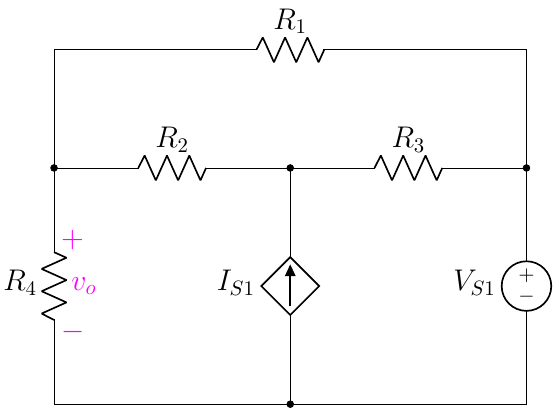
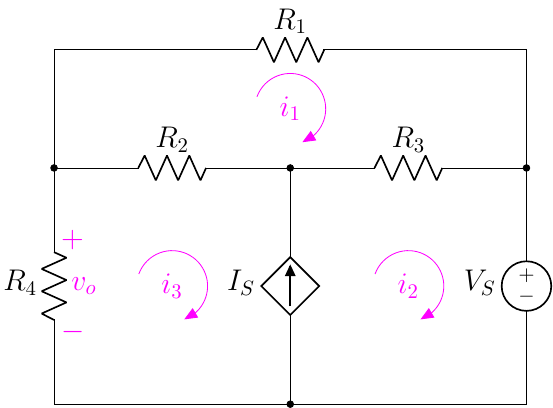
edit 3.49

diff --git a/1.6 Supermesh/3.5 Super Mesh Analysis/3.49(new).tex b/1.6 Supermesh/3.5 Super Mesh Analysis/3.49(new).tex
@@ -5,9 +5,9 @@
     \draw(0,0)  to[R,l=\rname{4}] ++(0,4)
                 to[short] ++(0,2);
 
-    \draw(4,0)  to[american controlled current source,l=\isname{1}] ++(0,4);
+    \draw(4,0)  to[american controlled current source,l=\isname{}] ++(0,4);
 
-    \draw(8,0)  to[V,l=\vsname{1}] ++(0,4)
+    \draw(8,0)  to[V,l=\vsname{}] ++(0,4)
                 to[short] ++(0,2);
     %%% horizontal %%%
     \draw(0,0)  to[short,-*] ++(4,0)
@@ -18,7 +18,9 @@
 
     \draw(0,6)  to[R,l=\rname{1}] ++(8,0);
     %%% find %%%
-
+    \loopc{4}{5}{1};
+    \loopc{6}{2}{2};
+    \loopc{2}{2}{3};
     \draw[color=magenta] (0,3) to[open,v^=$\color{magenta}{v_o}$] ++(0,-2);
 \end{circuitikz}
 \end{document}
